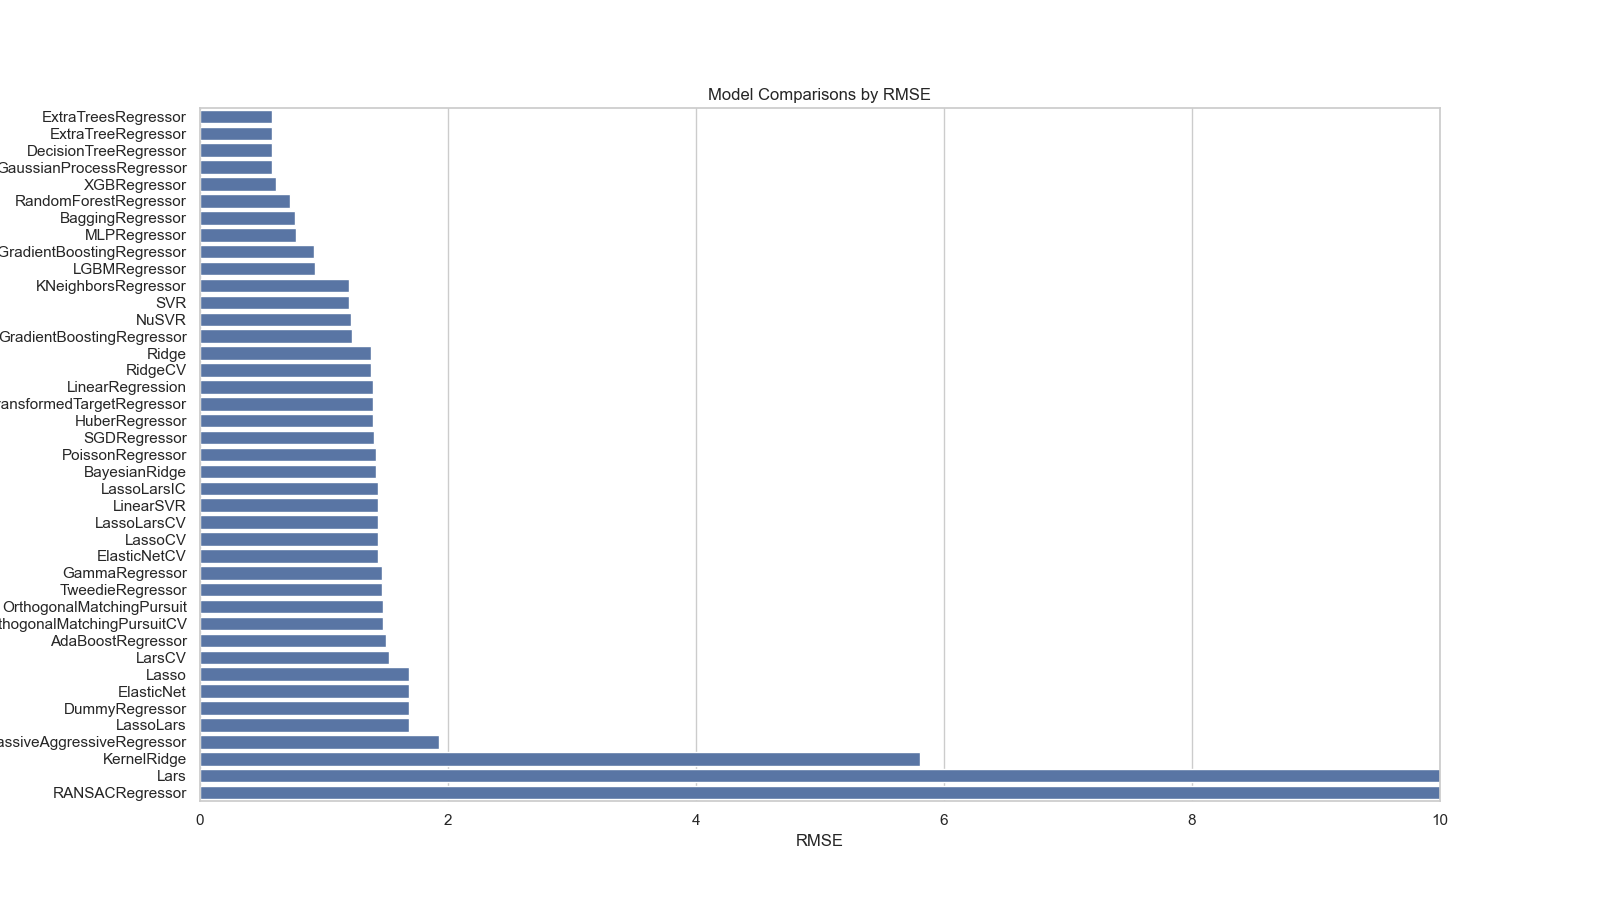
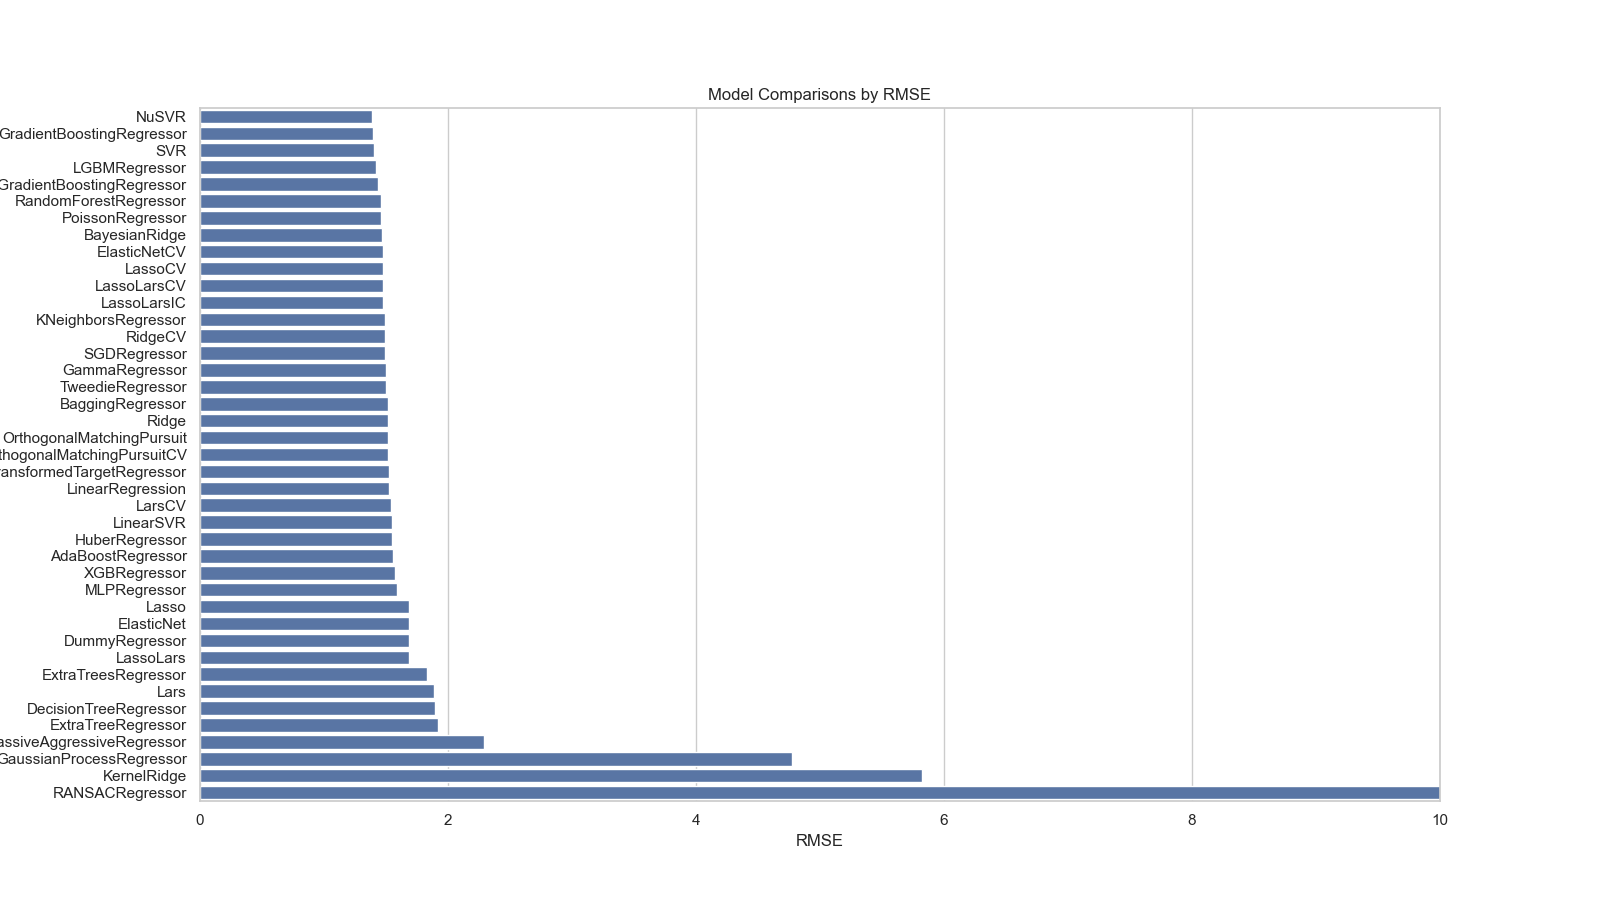
Changes by Ananya

Changed region(s): [[0.0, 0.1244, 0.125, 0.8711], [0.1562, 0.1244, 0.3125, 0.84], [0.5, 0.8089, 0.9062, 0.8711]]

diff --git a/MainProgram.py b/MainProgram.py
@@ -406,7 +406,7 @@ r2 = model.score(X_test, Y_test)
 
 Y_pred = model.predict(X_test)
 
-# Scatter Plot of Experimental vs Predicted pIC50 Values
+# Plot of Experimental vs Predicted pIC50 Values
 sns.set(color_codes=True)
 sns.set_style("white")
 
@@ -414,6 +414,7 @@ plt.figure(figsize=(16, 9))
 ax = sns.regplot(x=Y_test, y=Y_pred, scatter_kws={'alpha':0.4})
 ax.set_xlabel('Experimental pIC50', fontsize='large', fontweight='bold')
 ax.set_ylabel('Predicted pIC50', fontsize='large', fontweight='bold')
+plt.title("Predicted Plot")
 ax.set_xlim(0, 12)
 ax.set_ylim(0, 12)
 ax.figure.set_size_inches(5, 5)
@@ -425,23 +426,26 @@ models_test, predictions_test = clf.fit(X_train, X_test, Y_train, Y_test)
 
 plt.figure(figsize=(16, 9))
 sns.set_theme(style="whitegrid")
-ax = sns.barplot(y=predictions_train.index, x="R-Squared", data=predictions_train)
+plt.title("Model Comparisons by R-Squared")
+ax = sns.barplot(y=predictions_test.index, x="R-Squared", data=predictions_test)
 ax.set(xlim=(0, 1))
 
-predictions_train.to_csv('predictions_train.csv', index=False)
-predictions_test.to_csv('predictions_test.csv', index=False)
+predictions_train.to_csv('predictions_train.csv')
+predictions_test.to_csv('predictions_test.csv')
 
 plt.savefig('comparisons_rsquared.png')
 
 plt.figure(figsize=(16, 9))
 sns.set_theme(style="whitegrid")
-ax = sns.barplot(y=predictions_train.index, x="RMSE", data=predictions_train)
+plt.title("Model Comparisons by RMSE")
+ax = sns.barplot(y=predictions_test.index, x="RMSE", data=predictions_test)
 ax.set(xlim=(0, 10))
 
 plt.savefig('comparisons_rmse.png')
 
 plt.figure(figsize=(16, 9))
 sns.set_theme(style="whitegrid")
-ax = sns.barplot(y=predictions_train.index, x="Time Taken", data=predictions_train)
+plt.title("Model Comparisons by Time taken")
+ax = sns.barplot(y=predictions_test.index, x="Time Taken", data=predictions_test)
 ax.set(xlim=(0, 10))
 plt.savefig('comparisons_time_taken.png')
